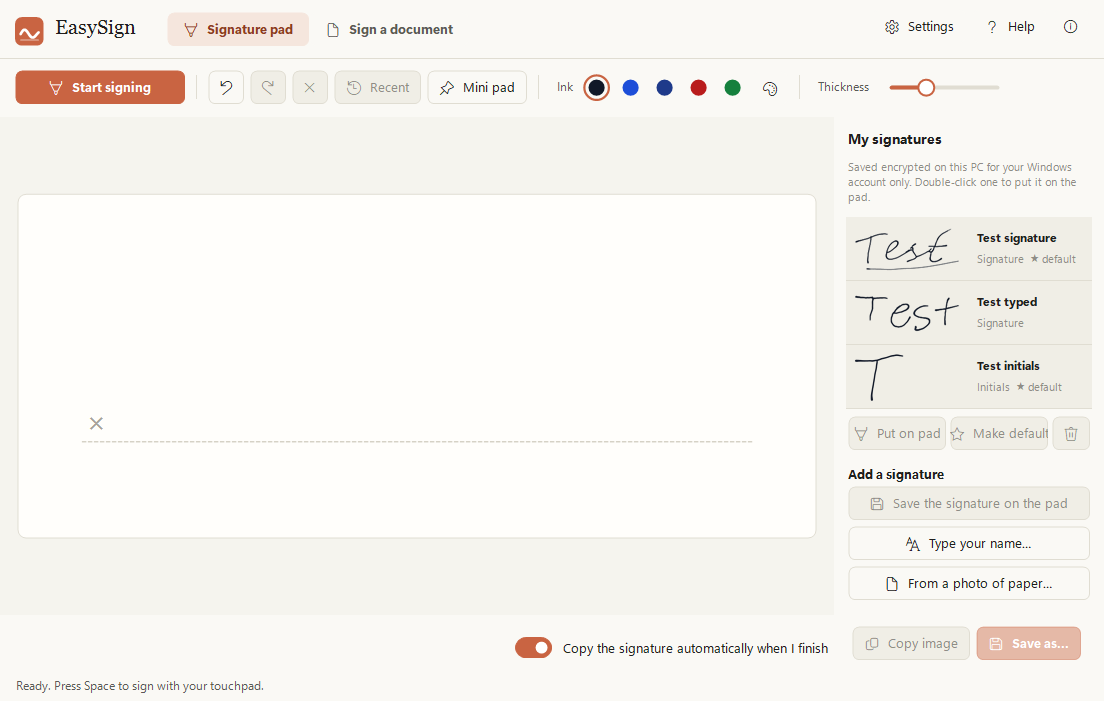
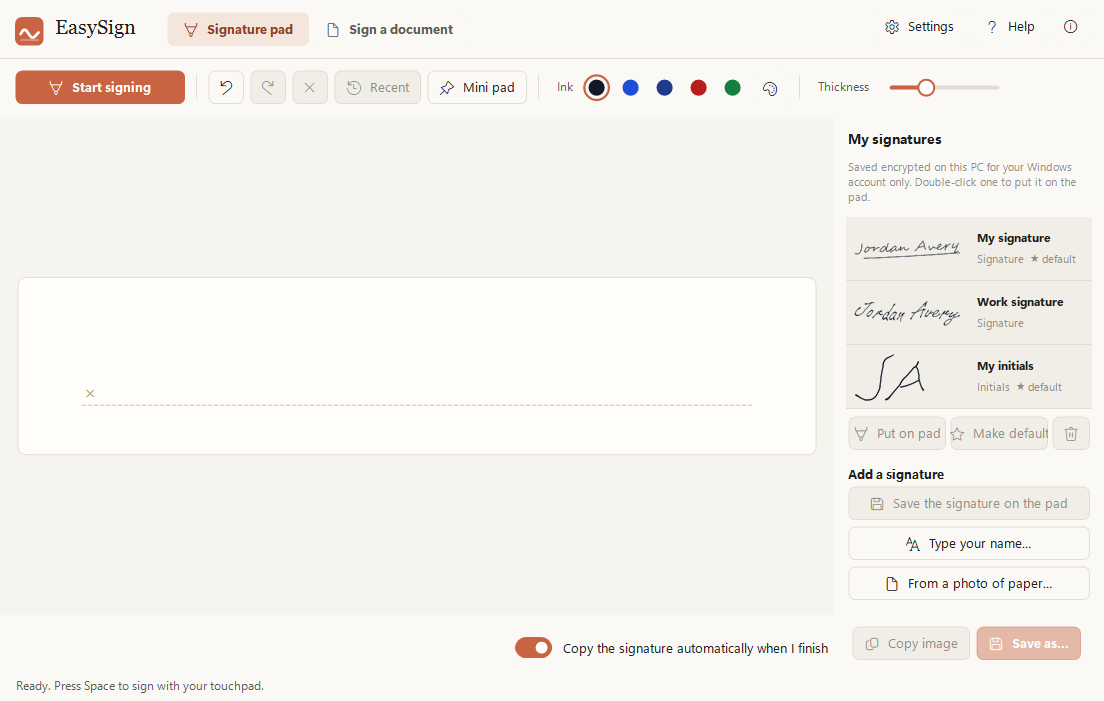
Fictional signer in all screenshots and the hero, Try it pad, full animations by default

diff --git a/index.html b/index.html
@@ -19,13 +19,12 @@
 <meta property="og:image:alt" content="The EasySign signature pad">
 <meta name="twitter:card" content="summary_large_image">
 <script>
-  // Decide the motion mode before anything paints: "full" (scroll scenes) or "calm" (fades only).
-  // Visitors with Windows animations turned off get calm, unless they chose full with the switch in the footer.
+  // Decide the motion mode before anything paints: "full" (scroll scenes, the default for everyone) or "calm"
+  // (fades only), which visitors can choose with the switch in the footer.
   (function () {
     var root = document.documentElement, pref = null;
     try { pref = localStorage.getItem('easysign-motion'); } catch (e) { }
-    var reduce = window.matchMedia && window.matchMedia('(prefers-reduced-motion: reduce)').matches;
-    var full = pref === 'full' || (pref !== 'calm' && !reduce);
+    var full = pref !== 'calm';
     root.className = 'js ' + (full ? 'motion' : 'calm');
   })();
 </script>
@@ -126,7 +125,7 @@
   .device { position: relative; width: min(1000px, 92vw); border-radius: 14px; overflow: hidden; border: 1px solid var(--line); background: var(--surface); transform-origin: 50% 85%; will-change: transform; }
   .device img { display: block; width: 100%; height: auto; }
   .device svg.ink { position: absolute; left: 10.4%; top: 33.6%; width: 58.4%; height: 30.6%; overflow: visible; }
-  .device svg.ink path { fill: none; stroke: var(--ink); stroke-width: 5.5; stroke-linecap: round; stroke-linejoin: round; }
+  .device svg.ink path { fill: none; stroke: var(--ink); stroke-width: 3.6; stroke-linecap: round; stroke-linejoin: round; }
   .toast {
     position: absolute; right: 3%; bottom: 7%; display: flex; align-items: center; gap: 8px; padding: 10px 16px; border-radius: 12px;
     background: #1F1E1D; color: #F5F4EE; font-size: clamp(.7rem, 1.4vw, .95rem); font-weight: 600;
@@ -134,6 +133,32 @@
   .toast svg { width: 18px; height: 18px; color: #D97757; }
   html.motion .toast { opacity: 0; transform: translateY(16px) scale(.96); }
   .sign-caption { text-align: center; margin-top: 22px; color: var(--muted); }
+
+  /* try it: a signing pad in the page (nothing is saved) */
+  .try { display: grid; grid-template-columns: minmax(0, 0.8fr) minmax(0, 1.4fr); gap: 36px; align-items: center; }
+  @media (max-width: 860px) { .try { grid-template-columns: minmax(0, 1fr); } }
+  .trypad { background: var(--surface); border: 1px solid var(--line); border-radius: 16px; padding: 14px; }
+  .trybar { display: flex; flex-wrap: wrap; align-items: center; gap: 8px; margin-bottom: 12px; }
+  .trybar button {
+    font: inherit; font-size: .92rem; font-weight: 600; padding: 9px 14px; border-radius: 10px; cursor: pointer;
+    background: var(--surface); color: var(--text); border: 1px solid var(--line); transition: background-color .15s, border-color .15s;
+  }
+  .trybar button:hover { background: var(--surface-alt); }
+  .trybar button.primary { background: var(--button); color: var(--on-accent); border-color: transparent; }
+  .trybar button.primary:hover { background: var(--button-hover); }
+  .trybar button[disabled] { opacity: .45; cursor: default; }
+  .trybar .sep { width: 1px; height: 24px; background: var(--line); margin: 0 4px; }
+  .swatch { width: 26px; height: 26px; padding: 0 !important; border-radius: 50% !important; border: 2px solid var(--surface) !important; box-shadow: 0 0 0 1px var(--line); }
+  .swatch[aria-pressed="true"] { box-shadow: 0 0 0 2px var(--accent); }
+  .paper { position: relative; aspect-ratio: 16 / 7; background: #FFFEFB; border: 1px solid #E0DDD2; border-radius: 12px; overflow: hidden; }
+  .paper.live { border-color: var(--accent); box-shadow: inset 0 0 0 1px var(--accent); }
+  .paper canvas { position: absolute; inset: 0; width: 100%; height: 100%; touch-action: none; cursor: crosshair; }
+  .paper .base { position: absolute; left: 7%; right: 7%; bottom: 24%; border-top: 1.5px dashed #C9C5BA; pointer-events: none; }
+  .paper .x { position: absolute; left: 3.2%; bottom: 25%; color: #9A968C; font-size: 1.3rem; line-height: 1; pointer-events: none; }
+  .paper .hint { position: absolute; inset: 0; display: grid; place-items: center; text-align: center; padding: 0 10%; color: #8F8D86; pointer-events: none; transition: opacity .3s; font-size: clamp(.9rem, 1.8vw, 1.05rem); }
+  .paper .chip { position: absolute; left: 12px; top: 12px; padding: 5px 11px; border-radius: 999px; background: #F5E6DD; color: #8C3D22; font-size: .82rem; font-weight: 600; opacity: 0; transition: opacity .2s; pointer-events: none; }
+  .paper.live .chip { opacity: 1; }
+  .trynote { margin-top: 10px; font-size: .88rem; }
 
   /* scene 2: words light up */
   .statement { font-family: Georgia, serif; font-size: clamp(1.9rem, 4.6vw, 3.8rem); line-height: 1.2; max-width: 1000px; margin: 0 auto; text-align: center; }
@@ -254,6 +279,7 @@
     <nav aria-label="Sections">
       <a href="#features">Features</a>
       <a href="#scene-steps">How it works</a>
+      <a href="#try">Try it</a>
       <a href="#feedback">Feedback</a>
       <a class="keep" href="#download">Download</a>
     </nav>
@@ -285,11 +311,32 @@
       </div>
       <div class="device-wrap">
         <div class="device">
-          <img src="images/pad-empty-light.png" alt="The EasySign signature pad, with a signature being drawn on it" width="1104" height="701">
+          <img src="images/pad-empty-light.png" alt="The EasySign signature pad, with a sample signature for Jordan Avery, a made-up person, being drawn on it" width="1104" height="701">
           <svg class="ink" viewBox="0 0 640 200" preserveAspectRatio="none" aria-hidden="true" focusable="false">
-            <path d="M20 150 C 40 60, 90 20, 110 60 C 125 95, 80 170, 60 175 C 45 178, 50 140, 95 120 C 140 100, 160 150, 180 140 C 200 130, 205 95, 220 100 C 235 105, 225 150, 245 148 C 265 146, 275 100, 295 102 C 315 104, 305 150, 330 146 C 360 141, 370 60, 395 40 C 410 30, 420 45, 405 90 C 392 128, 385 160, 410 150 C 440 138, 455 110, 480 112 C 500 114, 495 148, 520 145 C 550 141, 570 120, 600 118"/>
-            <path d="M386 76 C 400 72, 418 70, 432 68"/>
-            <path d="M70 192 C 210 182, 430 178, 628 164"/>
+            <path d="M12 166.8 L13.3 167 L14.5 167.3 L15.7 167.8 L17 168.3 L18.4 168.8 L19.8 169.2 L21.1 169.5 L22.5 169.7 L23.9 169.8 L25.4 169.8 L26.8 169.6 L28.2 169.5 L29.6 169.2 L31 168.8 L32.4 168.3 L33.9 167.6 L35.3 166.7 L36.7 165.8 L38.1 164.8 L39.3 163.7 L40.5 162.5 L41.7 161.2 L42.8 159.9 L43.8 158.6 L44.7 157.2 L45.5 155.8 L46.2 154.4 L46.8 153 L47.4 151.6 L47.9 150.2 L48.5 148.9 L49.1 147.5 L49.5 146.1 L50 144.7 L50.4 143.2 L50.8 141.7 L51.3 140.3 L51.6 138.9 L51.9 137.4 L52.1 135.9 L52.2 134.4 L52.3 132.9 L52.5 131.4 L52.7 129.8 L52.8 128.3 L53 126.8 L53.1 125.4 L53.2 123.9 L53.3 122.5 L53.4 121.1 L53.4 119.7 L53.4 118.4 L53.5 117.1 L53.6 115.8 L53.7 114.4 L53.8 113.1 L53.9 111.8 L54 110.4"/>
+            <path d="M121.6 154.2 L121.8 153.2 L122 152.3 L122.3 151.4 L122.3 150.5 L122.1 149.6 L121.9 148.8 L121.8 147.8 L122.1 146.8 L122.4 145.8 L122.7 145 L123 144.1 L123.3 143.1 L123.5 142 L123.8 140.9 L124 139.8 L124.3 138.7 L124.6 137.7 L125 136.6 L125.5 135.6 L126.1 134.6 L126.8 133.6 L127.4 132.6 L127.8 131.5 L127.9 130.4 L127.4 129.6 L126.1 129.4 L124.8 129.7 L123.6 130.3 L122.4 130.8 L121.2 131.3 L120 131.8 L118.8 132.3 L117.5 132.7 L116.1 133 L114.7 133.3 L113.3 133.6 L111.9 133.8 L110.5 134 L109 134.3 L107.5 134.4 L106.1 134.5 L104.6 134.4 L103.2 134.3 L101.8 134.2 L100.3 134.2 L98.9 134.1 L97.5 134.1 L96.2 134.7 L95.6 135.8 L95.3 137 L95.2 138.2 L95.1 139.5 L95 140.7 L94.9 142 L94.4 143.4 L93.8 144.7 L93.2 146 L92.5 147.2 L91.8 148.4 L91 149.6 L90.1 150.6 L89.2 151.6 L88.2 152.5 L87.2 153.6 L86 154.6 L84.8 155.5 L83.6 156.3 L82.4 157.1 L81.1 157.7 L79.7 158.3 L78.3 158.7 L76.8 159.1 L75.5 159.5 L74.2 159.7 L73 159.7 L71.9 159.2 L71.1 158.3 L70.7 157.2 L70.5 155.9 L70.4 154.4 L70.5 153 L70.8 151.6 L71 150.3 L71.4 148.9 L71.8 147.6 L72.2 146.3 L72.8 145 L73.4 143.9 L74 142.7 L74.6 141.6 L75.2 140.5 L76 139.5 L76.7 138.5 L77.6 137.4 L78.5 136.4 L79.4 135.3 L80.3 134.2 L81.2 133.1 L82.3 132.2 L83.5 131.4 L84.7 130.7 L85.9 130.1 L87.3 129.8 L88.7 129.7 L90 129.9 L91.3 130.1 L92.4 130.6 L93.5 131.2 L94.5 131.8 L95.4 132.6 L96.2 133.4 L96.7 134.4"/>
+            <path d="M121.1 132.4 L121.6 133.3 L122.7 134 L123.9 134.7 L125.2 135.2 L125.9 135.3"/>
+            <path d="M157.4 133 L156 132.8 L154.5 132.5 L153 132.4 L151.6 132.5 L150.2 132.9 L148.7 133.3 L147.3 133.6 L146 133.9 L144.7 134.3 L143.3 134.9 L142 135.5 L140.7 136.2 L139.6 136.8 L138.5 137.5 L137.5 138.1 L136.4 138.8 L135.4 139.5 L134.5 140.2 L133.6 141 L132.7 141.7 L131.9 142.6 L131.1 143.3 L130.2 144 L129.4 144.9 L128.5 145.8 L127.5 146.7 L126.4 147.5 L125.2 148.2 L124.2 148.6"/>
+            <path d="M208.5 106.2 L207.8 107.5 L207.4 108.9 L207 110.2 L206.5 111.4 L206.1 112.6 L205.6 113.8 L205.3 115 L205.1 116.2 L204.7 117.4 L204.4 118.6 L204.1 119.9 L203.7 121.2 L203.3 122.5 L202.9 123.8 L202.5 125.2 L202 126.6 L201.5 128.1 L200.9 129.5 L200.5 130.8 L200.2 132.2 L199.8 133.5 L199.1 134.8 L198.2 136 L197.1 137 L195.9 137.9 L194.7 138.9 L193.6 139.9 L192.5 140.9 L191.5 142 L190.5 143 L189.4 144 L188.2 145 L187 145.9 L185.8 146.8 L184.7 147.7 L183.6 148.6 L182.6 149.5 L181.5 150.4 L180.4 151.1 L179.3 151.9 L178.2 152.6 L177 153.3 L175.8 153.9 L174.6 154.5 L173.3 155 L172.1 155.5 L170.8 155.9 L169.5 156.2 L168 156.3 L166.5 156.3 L164.9 156.3 L163.4 156.2 L162 155.7 L160.7 155 L160 153.9 L159.7 152.8 L159.8 151.7 L159.9 150.6 L160.2 149.6 L160.5 148.5 L161 147.4 L161.6 146.2 L162.2 145.1 L163.1 144.2 L164.1 143.2 L165 142.2 L165.9 141.2 L166.8 140.2 L167.7 139.2 L168.7 138.2 L169.7 137.3 L170.7 136.4 L171.7 135.5 L172.8 134.5 L173.8 133.6 L174.8 132.7 L175.8 131.9 L176.8 131 L178 130.2 L179.1 129.4 L180.3 128.5 L181.5 127.7 L182.7 126.9 L184 126.2 L185.4 125.6 L187 125.3 L188.5 125.1 L189.8 125.3 L190.9 125.9 L191.7 126.8 L192.2 127.8 L192.6 128.9 L192.6 130.1 L192.6 131.4 L192.5 132.6 L192.8 133.9 L193.6 134.9 L194.4 135.9 L194.5 137.3 L193.8 138.4 L193.4 139"/>
+            <path d="M195.8 137 L196.6 137.9 L196.8 139.1 L196.9 140.3 L196.9 141.6 L196.8 142.8 L196.7 144.1 L196.5 145.4 L196.4 146.7 L196.4 148 L196.4 149.3 L196.6 150.6 L196.9 151.8 L197.5 153 L198.6 153.8 L199.8 154.5 L201.3 154.8 L202.8 154.9 L204.2 154.7 L205.6 154.4 L206.9 154.1 L208.2 153.6 L209.5 152.9 L210.6 152.3 L211.8 151.5 L213 150.7 L214.2 149.8 L215.4 149 L216.5 148.1 L217.8 147.8"/>
+            <path d="M219.3 153.6 L219.3 154.9 L219.7 156.2 L220.3 157.3 L221.3 158 L222.7 158.4 L224.2 158.2 L225.6 157.9 L227 157.3 L228.3 156.6 L229.7 155.7 L230.9 154.7 L232.2 153.7 L233.4 152.7 L234.6 151.8 L235.8 150.9 L237.1 150 L238.3 149 L239.5 148.1 L240.7 147.1 L242 146.1 L243.3 145.2 L244.6 144.3 L245.9 143.5 L247.2 142.8 L248.6 142.2 L249.1 142.2"/>
+            <path d="M227.4 138.5 L226.2 139.5 L225.1 140.5 L224.1 141.5 L223.1 142.6 L222.2 143.7 L221.3 144.8 L220.4 146 L220.1 147.2 L220.4 148.3 L221.5 149.1 L223 149.1 L224.3 148.2 L225.3 147 L226.2 145.7 L227.1 144.5 L228 143.2 L228.8 142 L229.7 140.8 L230.4 139.4 L231.1 138.1 L231.8 136.7 L232.5 135.4 L233.4 134.2 L234.4 133.1 L235.4 132 L236.6 131 L237.7 130 L238.9 129.1 L240.2 128.1 L241.4 127.2 L242.7 126.5 L244 125.9 L245.3 125.4 L246.8 125 L248.2 124.6 L249.7 124.3 L251.1 124.4 L252.3 125 L253.2 126 L253.8 127.1 L254.1 128.3 L254.2 129.5 L254.1 130.9 L253.7 132.3 L253.3 133.7 L253 135 L252.7 136.2 L252.5 137.5 L252 138.8 L251.6 140.2 L251.3 141.6 L251.3 142.8 L251.5 144 L251.9 145.1 L252.1 146.3 L252.4 147.6 L252.8 148.7 L253.5 149.6 L254.6 150.2 L256 150.4 L257.4 150.3 L258.8 150.1 L260.3 149.7 L261.7 149.2 L263 148.4 L264.2 147.5 L265.4 146.7 L266.5 145.9 L267.6 145 L268.7 144 L269.9 143 L271.1 142 L272.3 141 L273.4 140.2 L274.6 139.2 L275.8 138.1 L276.9 136.9 L277.9 135.7 L278.9 134.5 L279.8 133.3 L280.5 132 L281.2 131.1"/>
+            <path d="M279.9 129.4 L281.2 128.9 L282.5 128.3 L283.8 128.2 L284 129.2 L283.8 130.3 L283.5 131.4 L283.3 132.6 L282.8 133.8 L282.3 134.9 L281.6 136.1 L281 137.2 L280.6 138.4 L280.3 139.5 L280.1 140.7 L279.9 141.7 L279.5 142.8 L279 143.8 L278.5 144.8 L278 145.8 L277.6 146.8 L277.3 147.8 L277.9 148.4 L279.2 148.2 L280.5 147.5 L281.8 146.8 L282.8 145.9 L283.8 145 L284.9 144 L285.9 143.1 L286.9 142.1 L287.9 141.3 L289 140.4 L290.1 139.6 L291.1 138.7 L292.1 137.7 L293.1 136.8 L294.1 135.8 L295.2 134.9 L296.4 134 L297.8 133.1 L299.3 132.3 L300.9 131.7 L302.4 131.5 L303.5 131.9 L303.9 132.8 L303.9 133.8 L303.8 134.9 L303.7 135.9 L303.6 137.1 L303.6 138.3 L303.7 139.4 L303.9 140.5 L304.1 141.6 L304.4 142.6 L304.8 143.6 L305.3 144.5 L305.9 145.3 L306.8 146 L307.8 146.7 L309.1 147.1 L310.3 147.2 L311.6 147.1 L313 146.7 L314.4 146.4 L315.7 146 L317.1 145.5 L318.6 145 L320.1 144.4 L321.5 143.7 L322.9 142.9 L324.2 142.1 L325.4 141.2 L326.5 140.3 L327.6 139.4 L328.6 138.5 L329.6 137.6"/>
+            <path d="M363.6 151.4 L365 150.8 L366.5 150.7 L367.9 150.1 L369.3 149.2 L370.6 148.1 L371.7 146.9 L372.8 145.7 L373.8 144.4 L374.7 143.1 L375.8 142 L376.9 140.7 L377.8 139.5 L378.8 138.2 L379.7 136.9 L380.6 135.6 L381.6 134.5 L382.6 133.4 L383.6 132.4 L384.6 131.2 L385.5 130 L386.3 128.7 L386.8 127.3 L387.4 125.7 L388.1 124.3 L388.9 123 L389.7 121.8 L390.7 120.6 L391.7 119.4 L392.6 118.3 L393.6 117.2 L394.7 116 L395.7 114.9 L396.8 113.8 L397.8 112.7 L398.9 111.6 L399.9 110.4 L400.7 109.2 L401.6 108 L402.5 106.8 L403.4 105.5 L404.3 104.2 L405.3 103 L406.2 101.7 L407.4 100.7 L408.5 99.8 L409.7 98.8 L410.9 97.8 L411.5 96.6 L412 95.3 L412.3 94 L412.7 92.7 L412.7 92.2"/>
+            <path d="M385.3 131.1 L386.8 131 L388.4 131 L390 130.9 L391.5 130.7 L393.1 130.5 L394.7 130.1 L396.2 129.7 L397.6 129.4 L399 129 L400.6 128.7 L402.1 128.3 L403.5 127.9 L404.9 127.6 L406.3 127.2 L407.7 126.9 L409.1 126.6 L410.5 126.3 L411.8 126 L413.2 125.6 L414.6 125.2 L416 124.9 L417.3 124.6"/>
+            <path d="M427.5 144.1 L427 143.1 L426.4 142.1 L425.7 141 L425.1 139.8 L424.6 138.5 L424.1 137.3 L423.5 136 L423.1 134.7 L422.7 133.4 L422.3 132.2 L422 130.9 L421.7 129.6 L421.4 128.4 L421.1 127.3 L420.9 126.1 L420.5 125 L420.1 123.9 L419.7 122.7 L419.4 121.6 L419.5 120.4 L419.5 119.2 L419.4 118 L419.3 116.7 L419 115.5 L418.8 114.1 L418.5 112.8 L418.2 111.5 L418 110.2 L417.7 108.8 L417.4 107.5 L417 106.2 L416.6 104.9 L416.2 103.6 L415.7 102.3 L415.1 101.1 L414.3 100 L413.3 99 L412.6 98.5"/>
+            <path d="M448.5 121.8 L447.7 122.6 L447.5 123.6 L447.4 124.6 L447.4 125.6 L447.3 126.6 L447.4 127.5 L447.6 128.5 L448 129.5 L448.3 130.5 L448.6 131.5 L449 132.5 L449.2 133.5 L449.5 134.5 L449.9 135.6 L450.2 136.7 L450.5 137.6 L450.7 138.6 L451 139.5 L451.2 140.6 L451.5 141.6 L451.8 142.7 L451.9 143.8 L452.3 144.9 L453.3 145.6 L454.6 145.6 L455.8 145.2 L456.9 144.5 L458 143.9 L458.9 143.1 L459.8 142.4 L460.5 141.5 L461.1 140.5 L461.8 139.7 L462.6 138.8 L463.4 137.8 L464.2 137 L465 136.1 L465.8 135.3 L466.6 134.4 L467.4 133.6 L468.2 132.8 L469 132 L469.9 131.1 L470.8 130.2 L471.9 129.4 L473 128.8 L474.3 128.2 L474.9 127.3"/>
+            <path d="M475.8 127.8 L476.6 128.5 L477 129.4 L477.4 130.2 L477.9 131.1 L478.5 131.9 L479.1 132.7 L479.8 133.3 L480.6 133.8 L481.6 134.2 L482.8 134.6 L484.1 134.8 L485.5 135 L486.8 135.1 L488.1 135.1 L489.5 135 L490.9 135 L492.3 135.4 L493.6 136 L494.7 136.7 L495.9 137.4 L496.9 138.3 L497.7 139.2 L498.2 140.1 L498.8 141.1 L499.7 141.9 L500.7 142.6 L502 143.1 L503.3 143.4 L504.6 143.7 L506 143.8 L507.4 143.8 L508.8 143.6 L510.2 143.3 L511.6 143.1 L513 142.7 L514.4 142.4 L515.7 142 L517 141.7 L518.2 141.2 L519.5 140.6 L520.8 139.9 L522 139.1 L523.1 138.3 L524.3 137.5 L525.4 136.6 L526.6 135.9 L527.7 135.1 L528.9 134.3 L530 133.4 L531.2 132.5 L532.3 131.6 L533.4 130.7 L534.6 129.7 L535.7 128.7 L536.9 127.8 L538.1 127 L539.3 126.1 L540.6 125.3 L541.1 124.9"/>
+            <path d="M496.4 131 L497.2 131.7 L498.2 132.4 L498.8 133.2 L498.9 134.2 L498.5 135.2 L497.9 136.1 L497.3 137 L496.8 137.9 L496.3 138.8"/>
+            <path d="M498.9 123.9 L499.8 122.8 L500.7 121.8 L501.6 120.8 L502.4 119.7 L503.4 118.7 L504.4 117.7 L505.4 116.8 L506.6 116 L507.8 115.1 L509 114.2 L510.2 113.4 L511.5 112.8 L512.9 112.2 L514.3 111.8 L515.6 111.8 L516.6 112.3 L517.2 113.2 L517.4 114.4 L517.1 115.7 L516.7 117 L516.1 118.2 L515.6 119.6 L514.8 120.9 L514 122.1 L513.1 123.1 L512.1 124 L511.1 124.9 L510 125.6 L508.8 126.4 L507.7 127.1 L506.6 127.9 L505.6 128.6 L504.4 129.4 L503.3 130.1 L502.1 130.7 L500.9 131.4 L499.7 132"/>
+            <path d="M508 129 L509.1 128.1 L510.3 127.2 L511.4 126.3 L512.6 125.5 L512.7 125.1"/>
+            <path d="M542.8 121.6 L542.1 123 L542 124.3 L542.6 125.5 L543.4 126.5 L544.1 127.5 L544.5 128.8 L544.5 130.2 L544.4 131.6 L544.1 133 L543.9 134.5 L543.6 135.9 L543.2 137.3 L542.9 138.7 L542.7 140.2 L542.6 141.6 L542.6 143.1 L542.7 144.5 L542.7 146 L542.7 147.4"/>
+            <path d="M545 117.1 L545.7 115.8 L546.9 114.9 L548.2 114.7 L548.9 115.8 L548.8 117.3 L548.5 118.9 L548.1 120.5 L547.7 122 L547.2 123.5 L546.5 125 L545.8 126.3"/>
+            <path d="M573.2 110 L571.8 110.7 L570.4 111.3 L569.1 111.9 L567.7 112.5 L566.3 113.2 L565 114.1 L563.7 115 L562.5 116 L561.4 117 L560.2 118.1 L559 119.3 L557.9 120.5 L556.7 121.6 L555.7 122.9 L554.6 124.1 L553.5 125.3 L552.5 126.4 L551.4 127.6 L550.3 128.7 L549.1 129.8 L547.9 130.7 L546.5 131.5 L545.2 132.3"/>
+            <path d="M551 128.3 L552.1 127.1 L553.1 125.9 L554.3 124.6 L555.6 123.4 L556.9 122.2 L558.3 121.3"/>
+            <path d="M594.7 107.4 L593.7 108.5 L592.9 109.7 L592 111 L591.1 112.3 L590.2 113.7 L589.3 115.1 L588.6 116.5 L587.9 117.9 L587.2 119.3 L586.5 120.6 L585.9 122 L585.4 123.3 L584.9 124.7 L584.4 126.1 L584.2 127.4 L584 128.8 L584 130.2 L584.3 131.4 L584.9 132.3 L585.8 133 L586.9 133.4 L588.1 133.7 L589.5 133.6 L591 133.3 L592.4 132.9 L593.9 132.3 L595.3 131.7 L596.7 131.1 L598 130.3 L599.2 129.5 L600.6 128.6 L601.9 127.7 L603.2 126.8 L604.5 125.9 L606 125 L607.4 124.2 L608.8 123.6 L610.3 123.2 L611.8 122.9 L612.7 123.6 L612.6 124.8 L612.2 126.1 L611.9 127.5 L611.5 128.8 L610.9 130.2 L610.4 131.5 L609.9 132.7 L609.3 133.9 L608.7 135.2 L608 136.4 L607.4 137.7 L606.8 138.9 L606.1 140.2 L605.5 141.4 L604.9 142.7 L604.4 144 L603.8 145.3 L603.2 146.6 L602.7 147.9 L602 149.3 L601.4 150.6 L600.8 151.8 L600.1 153.1 L599.8 153.9 L599.1 155.2 L598.5 156.4 L598.2 157.6 L598.1 158.8 L598.3 159.9 L598.8 160.7 L599.6 161.2 L600.7 161.3 L602.1 161.1 L603.5 160.7 L605 160 L606.5 159.3 L607.9 158.6 L609.3 157.9 L610.8 157.1 L612.2 156.4 L613.7 155.6 L615.2 154.9 L616.5 154.1 L617.9 153.4 L619.3 152.6 L620.7 151.9"/>
+            <path d="M621.2 106.2 L620.4 107.2 L619.8 108.3 L619.2 109.4 L618.6 110.5 L618.1 111.5 L617.5 112.6 L616.8 113.8 L616.2 114.9 L615.5 116.1 L614.8 117.2 L614.2 118.4 L613.4 119.5 L612.7 120.6 L612 121.6 L611.4 122.7 L611.1 123.3"/>
+            <path d="M64.3 196 L65.5 195.9 L66.7 195.9 L68 195.8 L69.2 195.7 L70.5 195.6 L71.7 195.6 L72.9 195.5 L74.2 195.4 L75.4 195.3 L76.7 195.2 L77.9 195.1 L79.1 195 L80.4 194.9 L81.6 194.8 L82.8 194.7 L84.1 194.6 L85.3 194.6 L86.6 194.5 L87.8 194.5 L89 194.4 L90.2 194.4 L91.3 194.3 L92.5 194.3 L93.6 194.2 L94.8 194.2 L95.9 194.1 L97.1 194.1 L98.2 194 L99.3 194 L100.5 193.9 L101.6 193.9 L102.8 193.9 L104 193.8 L105.2 193.8 L106.4 193.7 L107.6 193.7 L108.8 193.6 L110.1 193.6 L111.3 193.5 L112.6 193.5 L113.9 193.5 L115.2 193.5 L116.4 193.5 L117.7 193.5 L119 193.5 L120.3 193.5 L121.6 193.5 L122.9 193.5 L124.2 193.5 L125.4 193.5 L126.7 193.5 L128 193.4 L129.2 193.4 L130.5 193.3 L131.7 193.3 L132.9 193.2 L134.1 193.2 L135.3 193.1 L136.5 193 L137.7 193 L138.9 192.9 L140 192.8 L141.2 192.7 L142.4 192.6 L143.6 192.6 L144.8 192.5 L145.9 192.4 L147.1 192.3 L148.3 192.3 L149.5 192.2 L150.7 192.1 L152 192.1 L153.2 192 L154.4 192 L155.7 191.9 L156.9 191.9 L158.2 191.9 L159.4 191.8 L160.6 191.8 L161.9 191.8 L163.1 191.7 L164.4 191.7 L165.6 191.7 L166.9 191.6 L168.1 191.6 L169.3 191.6 L170.6 191.5 L171.8 191.5 L173.1 191.4 L174.3 191.4 L175.5 191.3 L176.8 191.3 L178 191.2 L179.2 191.2 L180.5 191.1 L181.7 191.1 L183 191 L184.2 191 L185.5 190.9 L186.7 190.9 L187.9 190.8 L189.2 190.8 L190.4 190.7 L191.7 190.7 L192.9 190.6 L194.2 190.5 L195.4 190.5 L196.6 190.4 L197.9 190.4 L199.1 190.3 L200.3 190.2 L201.6 190.1 L202.8 190 L204.1 189.8 L205.4 189.7 L206.6 189.6 L207.9 189.4 L209.1 189.3 L210.4 189.2 L211.6 189 L212.9 188.9 L214.2 188.8 L215.4 188.7 L216.6 188.6 L217.9 188.5 L219.1 188.4 L220.3 188.4 L221.6 188.3 L222.8 188.3 L224 188.2 L225.3 188.2 L226.5 188.2 L227.7 188.1 L228.9 188.1 L230.2 188 L231.4 188 L232.6 188 L233.8 187.9 L235.1 187.9 L236.3 187.9 L237.5 187.8 L238.7 187.8 L240 187.7 L241.2 187.6 L242.4 187.6 L243.6 187.5 L244.9 187.4 L246.1 187.4 L247.3 187.3 L248.5 187.2 L249.7 187.1 L250.9 187.1 L252.1 187 L253.3 186.9 L254.5 186.8 L255.7 186.8 L256.9 186.7 L258.1 186.6 L259.3 186.5 L260.5 186.5 L261.7 186.4 L263 186.3 L264.2 186.3 L265.5 186.2 L266.7 186.1 L268 186.1 L269.3 186 L270.6 185.9 L271.9 185.8 L273.1 185.8 L274.4 185.7 L275.7 185.6 L277 185.5 L278.3 185.5 L279.6 185.4 L280.9 185.3 L282.1 185.2 L283.4 185.2 L284.7 185.1 L285.9 185 L287.1 185 L288.3 184.9 L289.5 184.9 L290.7 184.9 L291.9 184.8 L293.1 184.8 L294.3 184.8 L295.5 184.8 L296.6 184.8 L297.8 184.8 L299 184.7 L300.2 184.7 L301.4 184.7 L302.6 184.7 L303.8 184.6 L305 184.6 L306.2 184.5 L307.4 184.5 L308.6 184.4 L309.9 184.3 L311.1 184.3 L312.4 184.2 L313.6 184.2 L314.9 184.1 L316.1 184 L317.4 184 L318.6 183.9 L319.8 183.9 L321.1 183.8 L322.3 183.7 L323.6 183.7 L324.8 183.6 L326.1 183.5 L327.3 183.5 L328.6 183.4 L329.8 183.3 L331 183.3 L332.2 183.2 L333.5 183.1 L334.7 183.1 L335.9 183 L337.2 182.9 L338.4 182.9 L339.6 182.8 L340.8 182.7 L342.1 182.6 L343.3 182.6 L344.5 182.5 L345.7 182.4 L347 182.4 L348.2 182.3 L349.4 182.2 L350.7 182.1 L351.9 182.1 L353.1 182 L354.3 181.9 L355.5 181.8 L356.7 181.7 L357.9 181.5 L359.1 181.4 L360.3 181.3 L361.5 181.1 L362.6 181 L363.8 180.8 L365 180.7 L366.2 180.6 L367.3 180.4 L368.5 180.3 L369.7 180.2 L370.9 180.1 L372.1 180 L373.4 179.9 L374.6 179.8 L375.8 179.8 L377.1 179.7 L378.3 179.7 L379.6 179.6 L380.8 179.6 L382 179.5 L383.3 179.5 L384.5 179.4 L385.8 179.4 L387 179.3 L388.3 179.3 L389.5 179.2 L390.7 179.2 L392 179.1 L393.2 179 L394.4 179 L395.7 178.9 L396.9 178.8 L398.2 178.7 L399.4 178.7 L400.7 178.6 L402 178.5 L403.3 178.5 L404.6 178.4 L405.9 178.3 L407.2 178.3 L408.5 178.2 L409.8 178.2 L411.1 178.1 L412.4 178 L413.6 178 L414.9 177.9 L416.2 177.8 L417.4 177.7 L418.7 177.7 L419.9 177.6 L421.1 177.5 L422.4 177.4 L423.6 177.3 L424.8 177.2 L426.1 177.1 L427.3 176.9 L428.5 176.8 L429.8 176.7 L431 176.6 L432.2 176.5 L433.5 176.3 L434.7 176.2 L436 176.1 L437.2 176 L438.4 175.9 L439.7 175.8 L440.9 175.7 L442.1 175.7 L443.3 175.6 L444.5 175.6 L445.7 175.5 L446.9 175.5 L448.1 175.4 L449.3 175.4 L450.4 175.4 L451.6 175.3 L452.8 175.3 L454 175.3 L455.1 175.2 L456.3 175.2 L457.5 175.1 L458.7 175.1 L459.9 175 L461.1 175 L462.3 174.9 L463.6 174.8 L464.8 174.7 L466 174.7 L467.2 174.6 L468.4 174.5 L469.7 174.4 L470.9 174.4 L472.1 174.3 L473.3 174.2 L474.5 174.1 L475.7 174.1 L476.9 174 L478.1 173.9 L479.4 173.9 L480.6 173.8 L481.8 173.7 L483 173.6 L484.2 173.5 L485.5 173.4 L486.7 173.4 L488 173.2 L489.2 173.1 L490.5 173 L491.8 172.9 L493 172.8 L494.3 172.7 L495.6 172.5 L496.8 172.4 L498.1 172.3 L499.4 172.2 L500.7 172.1 L501.9 172 L503.2 171.8 L504.4 171.7 L505.7 171.6 L506.9 171.6 L508.1 171.5 L509.4 171.4 L510.6 171.4 L511.8 171.3 L513 171.3 L514.3 171.2 L515.5 171.2 L516.7 171.1 L518 171.1 L519.2 171.1 L520.4 171 L521.7 171 L522.9 171 L524.1 170.9 L525.4 170.8 L526.6 170.8 L527.8 170.7 L529 170.6 L530.3 170.5 L531.5 170.4 L532.7 170.3 L533.9 170.2 L535.1 170 L536.3 169.9 L537.5 169.7 L538.7 169.6 L540 169.4 L541.2 169.3 L542.4 169.1 L543.6 168.9 L544.8 168.8 L546 168.7 L547.2 168.5 L548.4 168.4 L549.6 168.3 L550.9 168.2 L552.1 168.1 L553.3 168 L554.6 168 L555.8 167.9 L557 167.8 L558.3 167.7 L559.5 167.6 L560.8 167.6 L562 167.5 L563.2 167.4 L564.5 167.3 L565.7 167.2 L567 167.2 L568.2 167.1 L569.4 167 L570.7 166.9 L571.9 166.8 L573.1 166.7 L574.4 166.6 L575.6 166.6 L576.8 166.5 L578 166.4 L579.2 166.3 L580.4 166.3 L581.5 166.2 L582.7 166.1 L583.9 166.1 L585.1 166 L586.3 165.9 L587.5 165.9 L588.7 165.8 L589.8 165.7 L591.1 165.7 L592.3 165.6 L593.5 165.5 L594.7 165.4 L595.9 165.3 L597.2 165.2 L598.4 165.2 L599.6 165.1 L600.9 165 L602.1 165 L603.3 164.9 L604.5 164.8 L605.8 164.8 L607 164.7 L608.2 164.7 L609.5 164.6 L610.7 164.5 L611.9 164.5 L613.2 164.4 L614.4 164.3 L615.6 164.2 L616.9 164.2 L618.1 164.1 L619.3 164 L620.6 163.9 L621.8 163.8 L623 163.7 L624.3 163.5 L625.5 163.4 L626.8 163.3 L628 163.2"/>
           </svg>
           <div class="toast" aria-hidden="true">
             <svg viewBox="0 0 24 24" fill="none" stroke="currentColor" stroke-width="2.4" stroke-linecap="round" stroke-linejoin="round"><path d="M5 12l5 5L20 7"/></svg>
@@ -298,6 +345,37 @@
         </div>
       </div>
       <p class="sign-caption wrap">No clicking needed. Each spot on the touchpad matches the same spot on the pad.</p>
+    </div>
+  </section>
+
+  <!-- Try it: sign with the mouse, a finger or a pen, or the touchpad like in EasySign. Nothing is saved or sent. -->
+  <section id="try" class="band-alt">
+    <div class="wrap try">
+      <div>
+        <p class="kicker reveal">Try it</p>
+        <h2 class="reveal">Sign here. Nothing is saved.</h2>
+        <p class="muted reveal">Drag with your mouse, a finger or a pen to sign on the pad.</p>
+        <p class="muted reveal touchpad-only">Or try it the EasySign way: click <b>Use touchpad</b>, then just move your finger on the touchpad. No clicking or holding. Hold <b>Shift</b> to lift the pen, press <b>Space</b> or <b>Esc</b> when you're done.</p>
+        <p class="subtle reveal">This is a demo in your browser. The real app reads exactly where your finger is on the touchpad, so your signature comes out even more like you.</p>
+      </div>
+      <div class="trypad reveal">
+        <div class="trybar" role="toolbar" aria-label="Try it pad">
+          <button type="button" class="primary touchpad-only" data-act="touchpad">Use touchpad</button>
+          <button type="button" data-act="undo" disabled>Undo</button>
+          <button type="button" data-act="clear" disabled>Clear</button>
+          <span class="sep" aria-hidden="true"></span>
+          <button type="button" class="swatch" data-ink="#1F1E1D" aria-label="Black ink" aria-pressed="true" style="background:#1F1E1D"></button>
+          <button type="button" class="swatch" data-ink="#1D4ED8" aria-label="Blue ink" aria-pressed="false" style="background:#1D4ED8"></button>
+          <button type="button" class="swatch" data-ink="#B42318" aria-label="Red ink" aria-pressed="false" style="background:#B42318"></button>
+        </div>
+        <div class="paper">
+          <canvas aria-label="Signature pad: drag to sign" tabindex="0"></canvas>
+          <div class="base" aria-hidden="true"></div><div class="x" aria-hidden="true">&times;</div>
+          <div class="hint">Sign here</div>
+          <div class="chip">Move your finger to sign &middot; Shift lifts &middot; Space finishes</div>
+        </div>
+        <p class="subtle trynote" aria-live="polite">Your signature stays on this page only. It is never saved or sent anywhere.</p>
+      </div>
     </div>
   </section>
 
@@ -582,6 +660,137 @@
     reveals.forEach(function (el) { el.classList.add('in'); onReveal(el); });
   }
   window.addEventListener('beforeprint', function () { reveals.forEach(function (el) { el.classList.add('in'); }); });
+
+  // ---------- try it pad ----------
+  (function tryPad() {
+    var paper = $('.paper'), canvas = $('.paper canvas'), ctx = canvas.getContext('2d');
+    var hint = $('.paper .hint'), note = $('.trynote');
+    var btnUndo = $('[data-act="undo"]'), btnClear = $('[data-act="clear"]'), btnPad = $('[data-act="touchpad"]');
+    var strokes = [], current = null, ink = '#1F1E1D', w = 0, h = 0, dpr = 1;
+    var canLock = 'requestPointerLock' in canvas && window.matchMedia('(pointer: fine)').matches;
+    if (!canLock) $$('.touchpad-only').forEach(function (el) { el.style.display = 'none'; });
+
+    function size() {
+      var r = canvas.getBoundingClientRect();
+      dpr = window.devicePixelRatio || 1; w = r.width; h = r.height;
+      canvas.width = Math.round(w * dpr); canvas.height = Math.round(h * dpr);
+      redraw();
+    }
+    // Width like a finger on the pad: faster is thinner; a pen's pressure is used when there is one.
+    function widthFor(s, pt, pressure) {
+      var base = Math.max(1.6, w / 260);
+      if (pressure) return base * (0.55 + pressure * 0.9);
+      var last = s.pts[s.pts.length - 1]; if (!last) return base * 1.05;
+      var d = Math.hypot(pt.x - last.x, pt.y - last.y), dt = Math.max(1, pt.t - last.t);
+      var target = base * Math.max(0.5, Math.min(1.3, 1.3 - (d / dt) * 0.35));
+      return last.w * 0.7 + target * 0.3;
+    }
+    function drawSeg(s, a, b) {
+      ctx.strokeStyle = s.ink; ctx.lineCap = 'round'; ctx.lineJoin = 'round';
+      ctx.lineWidth = (a.w + b.w) / 2;
+      ctx.beginPath(); ctx.moveTo(a.x, a.y); ctx.lineTo(b.x, b.y); ctx.stroke();
+    }
+    function redraw() {
+      ctx.setTransform(dpr, 0, 0, dpr, 0, 0);
+      ctx.clearRect(0, 0, w, h);
+      strokes.forEach(function (s) {
+        if (s.pts.length === 1) { ctx.fillStyle = s.ink; ctx.beginPath(); ctx.arc(s.pts[0].x, s.pts[0].y, s.pts[0].w / 2, 0, 7); ctx.fill(); }
+        for (var i = 1; i < s.pts.length; i++) drawSeg(s, s.pts[i - 1], s.pts[i]);
+      });
+      var any = strokes.length > 0;
+      hint.style.opacity = any || paper.classList.contains('live') ? 0 : 1;
+      btnUndo.disabled = btnClear.disabled = !any;
+    }
+    function begin(x, y, pressure) {
+      current = { ink: ink, pts: [] };
+      strokes.push(current);
+      add(x, y, pressure);
+    }
+    function add(x, y, pressure) {
+      if (!current) return;
+      var pt = { x: Math.max(0, Math.min(w, x)), y: Math.max(0, Math.min(h, y)), t: performance.now() };
+      var last = current.pts[current.pts.length - 1];
+      if (last && Math.hypot(pt.x - last.x, pt.y - last.y) < 0.8) return;
+      pt.w = widthFor(current, pt, pressure);
+      current.pts.push(pt);
+      if (last) drawSeg(current, last, pt); else redraw();
+    }
+    function end() { current = null; redraw(); }
+
+    // Mouse, finger or pen: press and drag.
+    canvas.addEventListener('pointerdown', function (e) {
+      if (document.pointerLockElement === canvas) return;
+      canvas.setPointerCapture(e.pointerId);
+      var r = canvas.getBoundingClientRect();
+      begin(e.clientX - r.left, e.clientY - r.top, e.pointerType === 'pen' ? e.pressure : 0);
+      e.preventDefault();
+    });
+    canvas.addEventListener('pointermove', function (e) {
+      if (!current || document.pointerLockElement === canvas) return;
+      var r = canvas.getBoundingClientRect();
+      (e.getCoalescedEvents ? e.getCoalescedEvents() : [e]).forEach(function (c) {
+        add(c.clientX - r.left, c.clientY - r.top, e.pointerType === 'pen' ? c.pressure : 0);
+      });
+    });
+    ['pointerup', 'pointercancel'].forEach(function (t) { canvas.addEventListener(t, function () { if (document.pointerLockElement !== canvas) end(); }); });
+
+    // Touchpad mode, like EasySign's "draw by moving": the cursor is hidden and every movement draws.
+    var pen = null, lifted = false;
+    function startPad() {
+      if (!canLock) return;
+      try {
+        var r = canvas.requestPointerLock();
+        if (r && r.catch) r.catch(function () { note.textContent = 'Your browser did not allow touchpad mode here. Drag to sign instead.'; });
+      } catch (err) { note.textContent = 'Your browser did not allow touchpad mode here. Drag to sign instead.'; }
+    }
+    function stopPad() { if (document.pointerLockElement === canvas) document.exitPointerLock(); }
+    document.addEventListener('pointerlockchange', function () {
+      var on = document.pointerLockElement === canvas;
+      paper.classList.toggle('live', on);
+      btnPad.textContent = on ? 'Finish (Space)' : 'Use touchpad';
+      if (on) {
+        pen = { x: w * 0.12, y: h * 0.6 }; lifted = false;
+        begin(pen.x, pen.y, 0);
+        note.textContent = 'Touchpad mode: move your finger to sign. Hold Shift to lift the pen. Space or Esc finishes.';
+      } else {
+        end(); pen = null;
+        note.textContent = 'Your signature stays on this page only. It is never saved or sent anywhere.';
+      }
+      redraw();
+    });
+    document.addEventListener('mousemove', function (e) {
+      if (!pen) return;
+      pen.x = Math.max(0, Math.min(w, pen.x + e.movementX));
+      pen.y = Math.max(0, Math.min(h, pen.y + e.movementY));
+      if (e.shiftKey) { if (!lifted) { lifted = true; end(); paper.classList.add('live'); } return; }
+      if (lifted || !current) { lifted = false; begin(pen.x, pen.y, 0); return; }
+      add(pen.x, pen.y, 0);
+    });
+    document.addEventListener('keydown', function (e) {
+      if (document.pointerLockElement === canvas && (e.code === 'Space' || e.key === 'Escape')) { e.preventDefault(); stopPad(); }
+      else if (e.code === 'Space' && document.activeElement === canvas && canLock) { e.preventDefault(); startPad(); }
+    });
+    btnPad.addEventListener('click', function () { if (document.pointerLockElement === canvas) stopPad(); else startPad(); });
+    btnUndo.addEventListener('click', function () { strokes.pop(); redraw(); });
+    btnClear.addEventListener('click', function () { strokes = []; redraw(); });
+    $$('.swatch').forEach(function (b) {
+      b.addEventListener('click', function () {
+        ink = b.dataset.ink;
+        $$('.swatch').forEach(function (o) { o.setAttribute('aria-pressed', o === b ? 'true' : 'false'); });
+      });
+    });
+    // Keep what was drawn when the pad changes size (strokes are scaled with it).
+    var lastW = 0, lastH = 0;
+    new ResizeObserver(function () {
+      var r = canvas.getBoundingClientRect();
+      if (lastW && r.width && (r.width !== lastW || r.height !== lastH)) {
+        var kx = r.width / lastW, ky = r.height / lastH;
+        strokes.forEach(function (s) { s.pts.forEach(function (q) { q.x *= kx; q.y *= ky; q.w *= kx; }); });
+      }
+      lastW = r.width; lastH = r.height;
+      size();
+    }).observe(canvas);
+  })();
 
   if (!full) return; // calm: fades only, nothing pinned or moving
 
